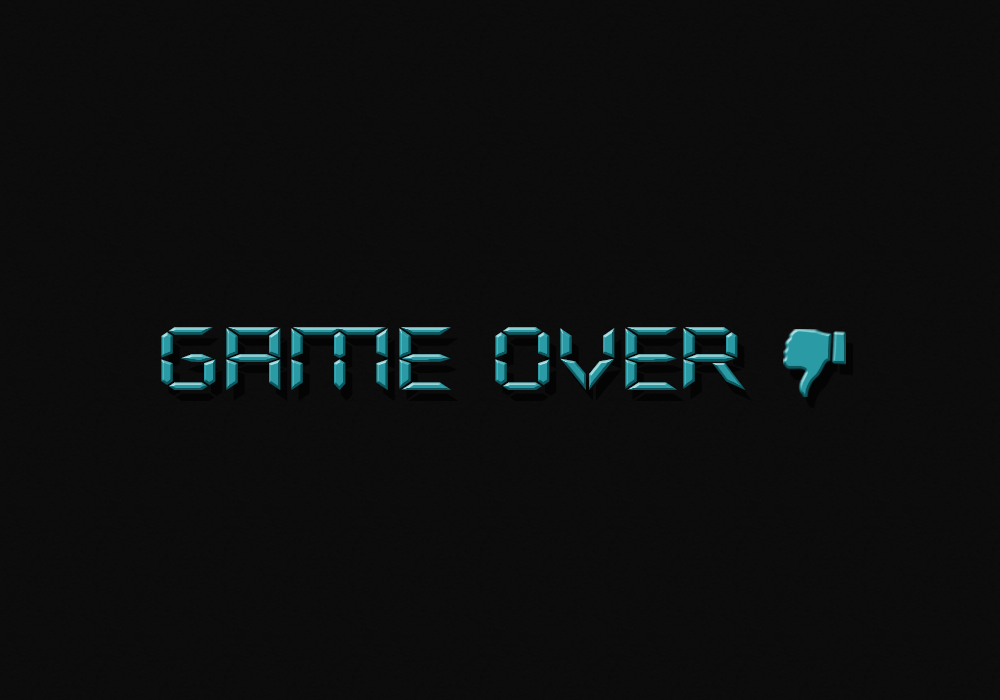
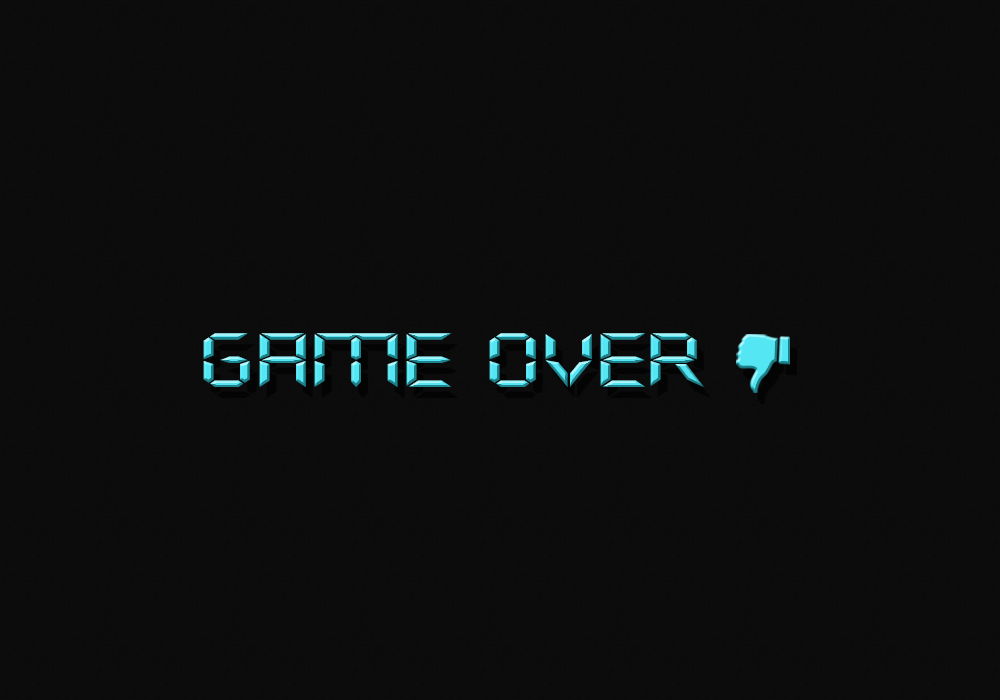
Affichage joueur qui gagne multijoueur

Changed region(s): [[0.155, 0.45, 0.868, 0.57]]

diff --git a/tetris/src/tetris/PanelJeu.java b/tetris/src/tetris/PanelJeu.java
@@ -44,7 +44,7 @@ public class PanelJeu extends JPanel{
 	 * affichage du fond de plateau
 	 */
 	Image background_geek,background_girly, background;
-	Image perdu, perduMulti;
+	Image perdu, perduMulti1, perduMulti2;
 	/** affichage des donn�es et des retours utilisateur
 	 * 
 	 */
@@ -87,7 +87,8 @@ public class PanelJeu extends JPanel{
 		background_girly = new ImageIcon("tetris_girly.gif").getImage();
 		background = background_geek;
 		perdu = new ImageIcon("GameOver.png").getImage();
-		perduMulti = new ImageIcon("GameOverMultijoueur.png").getImage();
+		perduMulti1 = new ImageIcon("GameOverMultijoueur2.png").getImage();
+		perduMulti2 = new ImageIcon("GameOverMultijoueur1.png").getImage();
 		
 		fleche = new ImageIcon("fleche.png").getImage();
 
@@ -436,8 +437,16 @@ public class PanelJeu extends JPanel{
 				supp.setVisible(false);
 			}
 			
-			if(joueurs.size()>1 && joueurs.get(0).perdu==true || joueurs.get(1).perdu==true){
-				g.drawImage(perduMulti, 0, 0, null);
+			if(joueurs.size()>1 && joueurs.get(0).perdu==true){
+				g.drawImage(perduMulti1, 0, 0, null);
+				valider.setVisible(false);
+				valider2.setVisible(false);
+				paramJeu.setVisible(false);
+				supp.setVisible(false);
+				supp2.setVisible(false);
+			}
+			else if (joueurs.size()>1 && joueurs.get(1).perdu==true){
+				g.drawImage(perduMulti2, 0, 0, null);
 				valider.setVisible(false);
 				valider2.setVisible(false);
 				paramJeu.setVisible(false);
